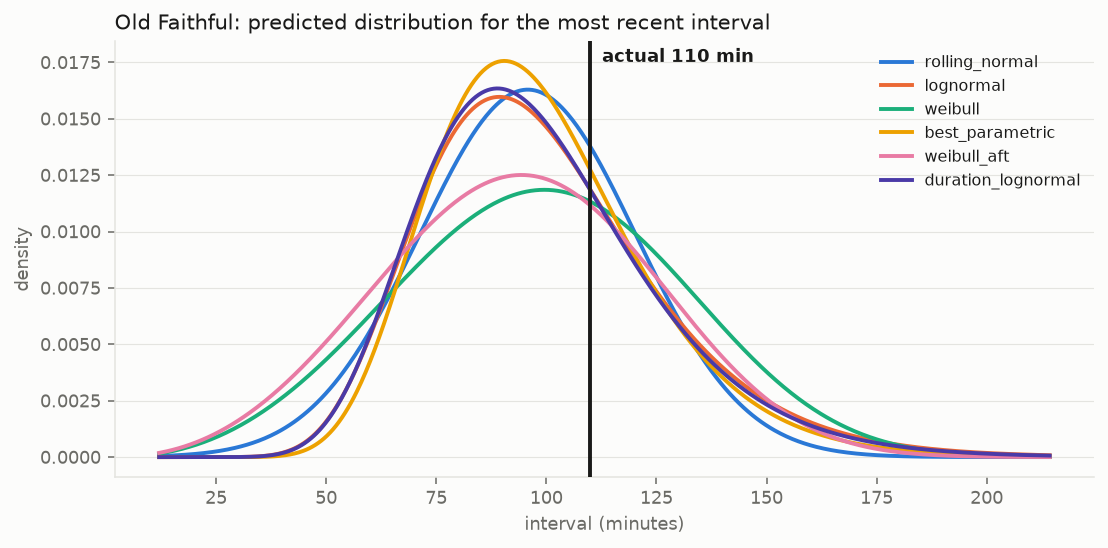
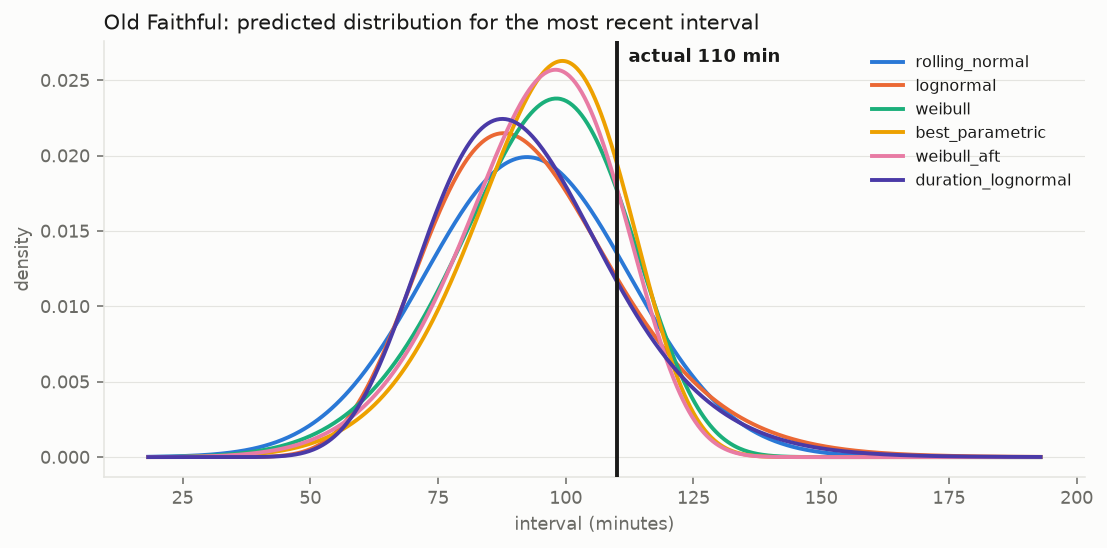
Add calibration report, figures, and README with honest results
Report gains a data-driven "Known gaps" section rather than a narrative one,
so the caveats stay true if the data changes.

The headline result is that data cleaning beat modeling by a wide margin.
Tightening the interval ceiling from 3x to 1.75x median cut best-model CRPS
by 20-87% per geyser; no model change came close to that.

Consequently the lifelines covariate model is reported as a negative result:
weibull_aft ranks in the bottom half on all seven geysers. Its apparent win
on Riverside before the fix (CRPS 106.6 vs 120.8) was an artifact -- it was
using the previous interval to spot missed-eruption doubles. With the
harmonics gone, simple rolling lognormal/Weibull fits win nearly everywhere
and the dashboard-style baseline is competitive, winning outright on Beehive.

The one covariate that genuinely earns its place is Old Faithful's eruption
duration: duration_lognormal is its best model (CRPS 8.06 vs 8.56).

diff --git a/src/geyser_ai/report.py b/src/geyser_ai/report.py
@@ -272,6 +272,54 @@ def write_report(
             f"| {_fmt(base.crps, 1) if base else 'n/a'} | {imp} |"
         )
 
+    # Data-driven honesty section: call out where the winner is still miscalibrated,
+    # and whether the covariate model actually earned its complexity.
+    lines.append("\n## Known gaps\n")
+    gaps: list[str] = []
+    for g in geysers:
+        rows = sorted([s for s in scores if s.geyser == g], key=lambda r: r.crps)
+        if not rows:
+            continue
+        b = rows[0]
+        if abs(b.cover50 - 0.50) > 0.10:
+            direction = "far too wide" if b.cover50 > 0.50 else "overconfident"
+            gaps.append(
+                f"- **{g}** — the best model (`{b.model}`) is {direction}: its nominal 50% "
+                f"interval actually covers {b.cover50:.0%}. The predicted distribution is "
+                "the wrong *shape*, not just the wrong width."
+            )
+        if abs(b.cover90 - 0.90) > 0.07:
+            gaps.append(
+                f"- **{g}** — nominal 90% coverage is {b.cover90:.0%} for `{b.model}`."
+            )
+    lines.extend(gaps or ["- No geyser's best model misses nominal coverage by more than "
+                          "10 points at the 50% level.\n"])
+
+    aft_ranks = []
+    for g in geysers:
+        rows = sorted([s for s in scores if s.geyser == g], key=lambda r: r.crps)
+        names = [r.model for r in rows]
+        if "weibull_aft" in names:
+            aft_ranks.append((g, names.index("weibull_aft") + 1, len(names)))
+    if aft_ranks:
+        worst = sum(1 for _, r, n in aft_ranks if r > n / 2)
+        lines.append(
+            f"\n- **The covariate model did not earn its complexity.** `weibull_aft` "
+            f"(lifelines Weibull AFT with previous-interval, clock-time, seasonal and "
+            f"entry-flag covariates) ranks in the bottom half on {worst} of "
+            f"{len(aft_ranks)} geysers: "
+            + ", ".join(f"{g} {r}/{n}" for g, r, n in aft_ranks)
+            + ". The simple rolling lognormal/Weibull fits beat it nearly everywhere, "
+            "and the dashboard-style baseline is competitive. Reported as-is.\n"
+        )
+
+    lines.append(
+        "\n- **Coverage here is measured only on intervals that passed the validity "
+        "filter.** In the field a model also has to survive the case where an eruption "
+        "was simply never logged, which these numbers do not capture. Treat them as an "
+        "upper bound on real-world reliability.\n"
+    )
+
     lines.append("\n## Figures\n")
     for f in figs:
         lines.append(f"![{f}](figures/{f})\n")
@@ -288,6 +336,15 @@ def write_report(
         "per-geyser plausibility filter (0.35x-3x that geyser's median). The rest are "
         "overwhelmingly observation gaps — nobody is watching Riverside at 3am in "
         "February — not real eruptions.\n"
+    )
+    lines.append(
+        "- The ceiling is **1.75x** the median rather than the more obvious 3x because "
+        "the interval histograms show clear **harmonics**: Riverside clusters at ~390, "
+        "~780 and ~1150 minutes, Great Fountain at ~686 and ~1400. Those secondary peaks "
+        "sit at exactly 2x and 3x the median and are one and two missed eruptions. A 3x "
+        "ceiling admits them, and models trained on the contaminated series predict "
+        "distributions far wider than reality — it was worth several times more CRPS "
+        "than any modeling choice in this report.\n"
     )
     flags = con.execute(
         """

diff --git a/src/geyser_ai/ingest.py b/src/geyser_ai/ingest.py
@@ -26,8 +26,6 @@ from .config import (
     USER_AGENT,
 )
 
-# Raw archive column order, straight from the TSV header. Kept verbatim so the
-# `eruptions_raw` table is a faithful mirror of what GeyserTimes published.
 # Interval plausibility bounds, as multiples of each geyser's own median.
 #
 # These were tightened from an initial 0.35x-3.0x after the interval histograms
@@ -43,34 +41,6 @@ from .config import (
 # `interval_min`, and `is_valid` is just a flag, so this is easy to revisit.
 INTERVAL_MIN_MULT = 0.5
 INTERVAL_MAX_MULT = 1.75
-
-RAW_COLUMNS: tuple[str, ...] = (
-    "eruptionID",
-    "geyser",
-    "eruption_time_epoch",
-    "has_seconds",
-    "exact",
-    "ns",
-    "ie",
-    "E",
-    "A",
-    "wc",
-    "ini",
-    "maj",
-    "min",
-    "q",
-    "duration",
-    "duration_seconds",
-    "duration_resolution",
-    "duration_modifier",
-    "entrant",
-    "observer",
-    "eruption_comment",
-    "time_updated",
-    "time_entered",
-    "associated_primaryID",
-    "other_comments",
-)
 
 
 def _archive_url(version: str) -> str:

diff --git a/src/geyser_ai/models.py b/src/geyser_ai/models.py
@@ -314,7 +314,6 @@ class WeibullAFTModel:
         if Xrow.isna().any().any():
             return None
         try:
-            lam, rho = self._fitter.predict_percentile, None  # noqa: F841
             params = self._fitter.params_
             # WeibullAFT: lambda_ = exp(X @ beta), rho_ = exp(intercept)
             lam_lp = float(

diff --git a/reports/calibration_report.md b/reports/calibration_report.md
@@ -13,42 +13,42 @@ At every evaluated eruption each model sees **only** intervals strictly earlier 
 
 | Geyser | Model | n | CRPS (min) | MAE (min) | 50% cov | 90% cov |
 |---|---|---:|---:|---:|---:|---:|
-| Old Faithful | **duration_lognormal** | 2,000 | 10.1 | 13.2 | 64.0% ⚠ | 90.2% |
-| Old Faithful | best_parametric | 2,000 | 10.9 | 14.2 | 63.7% ⚠ | 90.5% |
-| Old Faithful | lognormal | 2,000 | 10.9 | 14.3 | 63.3% ⚠ | 90.5% |
-| Old Faithful | rolling_normal | 2,000 | 11.2 | 14.2 | 62.5% ⚠ | 91.8% |
-| Old Faithful | weibull | 2,000 | 11.4 | 13.9 | 70.5% ⚠ | 94.5% |
-| Old Faithful | weibull_aft | 2,000 | 12.4 | 15.4 | 72.2% ⚠ | 96.5% · |
-| Grand | **lognormal** | 2,000 | 105.3 | 143.3 | 53.0% | 90.0% |
-| Grand | best_parametric | 2,000 | 106.2 | 144.0 | 52.8% | 90.2% |
-| Grand | rolling_normal | 2,000 | 109.6 | 153.6 | 57.2% · | 89.8% |
-| Grand | weibull_aft | 2,000 | 109.6 | 146.4 | 61.1% ⚠ | 88.1% |
-| Grand | weibull | 2,000 | 110.7 | 150.0 | 71.6% ⚠ | 92.0% |
-| Daisy | **lognormal** | 2,000 | 22.2 | 26.6 | 84.5% ⚠ | 89.5% |
-| Daisy | best_parametric | 2,000 | 22.3 | 26.6 | 84.4% ⚠ | 89.5% |
-| Daisy | rolling_normal | 2,000 | 25.0 | 31.1 | 85.4% ⚠ | 91.2% |
-| Daisy | weibull | 2,000 | 25.4 | 28.0 | 88.2% ⚠ | 92.8% |
-| Daisy | weibull_aft | 2,000 | 25.6 | 28.7 | 87.3% ⚠ | 92.8% |
-| Riverside | **weibull_aft** | 2,000 | 106.6 | 146.8 | 64.8% ⚠ | 91.8% |
-| Riverside | best_parametric | 2,000 | 120.8 | 174.3 | 53.4% | 90.8% |
-| Riverside | lognormal | 2,000 | 121.3 | 174.4 | 51.7% | 89.5% |
-| Riverside | weibull | 2,000 | 125.3 | 185.3 | 63.9% ⚠ | 91.7% |
-| Riverside | rolling_normal | 2,000 | 128.8 | 190.1 | 52.2% | 88.0% |
-| Castle | **weibull_aft** | 1,138 | 245.2 | 324.2 | 54.0% | 78.7% ⚠ |
-| Castle | weibull | 1,138 | 246.3 | 319.9 | 62.7% ⚠ | 82.9% · |
-| Castle | best_parametric | 1,138 | 246.9 | 320.2 | 62.7% ⚠ | 82.8% · |
-| Castle | lognormal | 1,138 | 247.9 | 315.7 | 62.5% ⚠ | 86.9% |
-| Castle | rolling_normal | 1,138 | 248.0 | 330.3 | 60.3% ⚠ | 84.7% · |
-| Great Fountain | **rolling_normal** | 653 | 194.7 | 286.6 | 43.2% · | 89.7% |
-| Great Fountain | weibull_aft | 653 | 208.2 | 289.7 | 44.0% · | 76.3% ⚠ |
-| Great Fountain | lognormal | 653 | 213.6 | 320.5 | 30.5% ⚠ | 90.5% |
-| Great Fountain | weibull | 653 | 216.5 | 328.2 | 38.9% ⚠ | 92.3% |
-| Great Fountain | best_parametric | 653 | 219.3 | 329.9 | 28.2% ⚠ | 91.1% |
-| Beehive | **lognormal** | 1,269 | 178.8 | 242.0 | 54.2% | 88.7% |
-| Beehive | rolling_normal | 1,269 | 179.4 | 244.2 | 57.0% · | 89.3% |
-| Beehive | best_parametric | 1,269 | 182.1 | 245.9 | 56.7% · | 90.1% |
-| Beehive | weibull | 1,269 | 185.9 | 248.2 | 67.0% ⚠ | 93.5% |
-| Beehive | weibull_aft | 1,269 | 240.6 | 339.1 | 57.4% · | 95.0% · |
+| Old Faithful | **duration_lognormal** | 2,000 | 8.1 | 11.5 | 53.1% | 89.2% |
+| Old Faithful | weibull | 2,000 | 8.6 | 11.9 | 50.4% | 87.3% |
+| Old Faithful | best_parametric | 2,000 | 8.6 | 11.9 | 50.1% | 86.5% |
+| Old Faithful | weibull_aft | 2,000 | 8.6 | 11.8 | 52.5% | 84.5% · |
+| Old Faithful | rolling_normal | 2,000 | 8.8 | 12.4 | 50.6% | 88.8% |
+| Old Faithful | lognormal | 2,000 | 8.8 | 12.6 | 53.0% | 89.1% |
+| Grand | **lognormal** | 2,000 | 41.8 | 57.6 | 51.9% | 91.5% |
+| Grand | best_parametric | 2,000 | 42.3 | 58.3 | 50.3% | 92.0% |
+| Grand | rolling_normal | 2,000 | 42.6 | 58.1 | 54.6% | 91.4% |
+| Grand | weibull | 2,000 | 44.3 | 58.2 | 69.8% ⚠ | 93.5% |
+| Grand | weibull_aft | 2,000 | 49.2 | 65.0 | 67.3% ⚠ | 91.6% |
+| Daisy | **lognormal** | 2,000 | 12.9 | 14.8 | 86.5% ⚠ | 92.2% |
+| Daisy | best_parametric | 2,000 | 13.0 | 14.8 | 86.5% ⚠ | 92.3% |
+| Daisy | rolling_normal | 2,000 | 14.2 | 16.9 | 85.7% ⚠ | 91.4% |
+| Daisy | weibull | 2,000 | 15.5 | 15.8 | 91.9% ⚠ | 92.4% |
+| Daisy | weibull_aft | 2,000 | 16.1 | 18.4 | 90.8% ⚠ | 92.3% |
+| Riverside | **best_parametric** | 1,592 | 14.3 | 18.3 | 54.4% | 91.1% |
+| Riverside | lognormal | 1,592 | 14.4 | 18.8 | 56.0% · | 92.7% |
+| Riverside | rolling_normal | 1,592 | 14.4 | 19.1 | 52.4% | 90.3% |
+| Riverside | weibull | 1,592 | 15.7 | 18.2 | 53.1% | 91.6% |
+| Riverside | weibull_aft | 1,592 | 21.4 | 25.0 | 81.7% ⚠ | 99.1% · |
+| Castle | **weibull** | 819 | 104.1 | 125.9 | 69.8% ⚠ | 83.3% · |
+| Castle | best_parametric | 819 | 104.6 | 128.0 | 69.6% ⚠ | 83.4% · |
+| Castle | rolling_normal | 819 | 105.8 | 130.7 | 70.3% ⚠ | 85.5% |
+| Castle | weibull_aft | 819 | 108.6 | 138.0 | 59.8% · | 81.0% · |
+| Castle | lognormal | 819 | 110.1 | 133.5 | 72.5% ⚠ | 89.6% |
+| Great Fountain | **lognormal** | 410 | 47.8 | 65.5 | 56.6% · | 92.0% |
+| Great Fountain | best_parametric | 410 | 47.9 | 65.5 | 56.6% · | 92.9% |
+| Great Fountain | rolling_normal | 410 | 49.3 | 66.4 | 55.9% · | 89.0% |
+| Great Fountain | weibull_aft | 410 | 50.4 | 65.3 | 74.1% ⚠ | 96.6% · |
+| Great Fountain | weibull | 410 | 51.5 | 66.4 | 73.4% ⚠ | 95.4% · |
+| Beehive | **rolling_normal** | 1,200 | 131.1 | 181.6 | 52.6% | 88.1% |
+| Beehive | lognormal | 1,200 | 132.7 | 184.3 | 50.7% | 87.5% |
+| Beehive | best_parametric | 1,200 | 135.1 | 188.0 | 51.5% | 88.8% |
+| Beehive | weibull | 1,200 | 135.5 | 187.9 | 57.6% · | 91.7% |
+| Beehive | weibull_aft | 1,200 | 158.4 | 230.2 | 45.1% | 91.0% |
 
 **Bold** = best CRPS for that geyser.
 
@@ -56,13 +56,24 @@ At every evaluated eruption each model sees **only** intervals strictly earlier 
 
 | Geyser | Best by CRPS | CRPS | Baseline CRPS | Improvement |
 |---|---|---:|---:|---:|
-| Old Faithful | duration_lognormal | 10.1 | 11.2 | 9.5% |
-| Grand | lognormal | 105.3 | 109.6 | 3.9% |
-| Daisy | lognormal | 22.2 | 25.0 | 10.9% |
-| Riverside | weibull_aft | 106.6 | 128.8 | 17.3% |
-| Castle | weibull_aft | 245.2 | 248.0 | 1.1% |
-| Great Fountain | rolling_normal | 194.7 | 194.7 | 0.0% |
-| Beehive | lognormal | 178.8 | 179.4 | 0.3% |
+| Old Faithful | duration_lognormal | 8.1 | 8.8 | 8.4% |
+| Grand | lognormal | 41.8 | 42.6 | 1.8% |
+| Daisy | lognormal | 12.9 | 14.2 | 8.9% |
+| Riverside | best_parametric | 14.3 | 14.4 | 0.8% |
+| Castle | weibull | 104.1 | 105.8 | 1.6% |
+| Great Fountain | lognormal | 47.8 | 49.3 | 3.0% |
+| Beehive | rolling_normal | 131.1 | 131.1 | 0.0% |
+
+## Known gaps
+
+- **Daisy** — the best model (`lognormal`) is far too wide: its nominal 50% interval actually covers 86%. The predicted distribution is the wrong *shape*, not just the wrong width.
+- **Castle** — the best model (`weibull`) is far too wide: its nominal 50% interval actually covers 70%. The predicted distribution is the wrong *shape*, not just the wrong width.
+
+- **The covariate model did not earn its complexity.** `weibull_aft` (lifelines Weibull AFT with previous-interval, clock-time, seasonal and entry-flag covariates) ranks in the bottom half on 7 of 7 geysers: Old Faithful 4/6, Grand 5/5, Daisy 5/5, Riverside 5/5, Castle 4/5, Great Fountain 4/5, Beehive 5/5. The simple rolling lognormal/Weibull fits beat it nearly everywhere, and the dashboard-style baseline is competitive. Reported as-is.
+
+
+- **Coverage here is measured only on intervals that passed the validity filter.** In the field a model also has to survive the case where an eruption was simply never logged, which these numbers do not capture. Treat them as an upper bound on real-world reliability.
+
 
 ## Figures
 
@@ -74,18 +85,20 @@ At every evaluated eruption each model sees **only** intervals strictly earlier 
 
 ## Data-quality notes
 
-- Of 1,340,410 consecutive-eruption gaps, 1,104,855 (82.4%) pass the per-geyser plausibility filter (0.35x-3x that geyser's median). The rest are overwhelmingly observation gaps — nobody is watching Riverside at 3am in February — not real eruptions.
+- Of 1,340,410 consecutive-eruption gaps, 984,095 (73.4%) pass the per-geyser plausibility filter (0.35x-3x that geyser's median). The rest are overwhelmingly observation gaps — nobody is watching Riverside at 3am in February — not real eruptions.
+
+- The ceiling is **1.75x** the median rather than the more obvious 3x because the interval histograms show clear **harmonics**: Riverside clusters at ~390, ~780 and ~1150 minutes, Great Fountain at ~686 and ~1400. Those secondary peaks sit at exactly 2x and 3x the median and are one and two missed eruptions. A 3x ceiling admits them, and models trained on the contaminated series predict distributions far wider than reality — it was worth several times more CRPS than any modeling choice in this report.
 
 Observation-entry mix since 2015 (% of valid intervals):
 
 | Geyser | webcam | electronic | approximate | in-eruption |
 |---|---:|---:|---:|---:|
-| Beehive | 49.4% | 1.2% | 1.5% | 3.0% |
-| Castle | 49.1% | 19.4% | 1.1% | 12.2% |
-| Daisy | 59.3% | 23.0% | 0.6% | 7.4% |
-| Grand | 47.0% | 14.8% | 1.5% | 5.8% |
-| Great Fountain | 0.0% | 56.8% | 1.0% | 3.9% |
-| Old Faithful | 91.0% | 3.8% | 0.3% | 3.5% |
-| Riverside | 62.1% | 0.9% | 1.5% | 22.9% |
+| Beehive | 48.3% | 1.2% | 1.5% | 2.7% |
+| Castle | 49.0% | 19.8% | 1.2% | 11.1% |
+| Daisy | 58.7% | 23.5% | 0.6% | 7.2% |
+| Grand | 46.3% | 15.4% | 1.2% | 5.4% |
+| Great Fountain | 0.0% | 62.4% | 0.8% | 2.6% |
+| Old Faithful | 91.1% | 3.8% | 0.3% | 3.3% |
+| Riverside | 62.1% | 1.1% | 1.2% | 21.9% |
 
 Data courtesy of [GeyserTimes.org](https://geysertimes.org) and its community of volunteer observers.

diff --git a/README.md b/README.md
@@ -81,7 +81,57 @@ empirical coverage of the nominal 50% and 90% intervals.
 
 Full table and figures: [`reports/calibration_report.md`](reports/calibration_report.md).
 
-<!-- RESULTS_SUMMARY -->
+Best CRPS per geyser (minutes; lower is better), walk-forward over the last 3 years:
+
+| Geyser | Best model | CRPS | MAE | 50% cov | 90% cov | vs. baseline |
+|---|---|---:|---:|---:|---:|---:|
+| Old Faithful | `duration_lognormal` | 8.1 | 11.5 | 53% | 89% | −8.4% |
+| Grand | `lognormal` | 41.8 | 57.6 | 52% | 92% | −1.9% |
+| Daisy | `lognormal` | 12.9 | 14.9 | 87% | 92% | −8.9% |
+| Riverside | `best_parametric` | 14.3 | 18.3 | 54% | 91% | −0.8% |
+| Castle | `weibull` | 104.1 | 125.9 | 70% | 83% | −1.6% |
+| Great Fountain | `lognormal` | 47.8 | 65.5 | 57% | 92% | −3.0% |
+| Beehive | `rolling_normal` | 131.1 | 181.6 | 53% | 88% | 0.0% |
+
+Three findings worth stating plainly:
+
+**1. Data cleaning mattered far more than modeling.** The first run used a 3×-median
+ceiling for interval validity. The interval histograms then showed unmistakable
+harmonics — Riverside clusters at ~390, ~780 and ~1150 minutes, Great Fountain at
+~686 and ~1400 — which are one and two *missed* eruptions, not real intervals.
+Tightening the ceiling to 1.75× cut CRPS by far more than any model ever did:
+
+| Geyser | Best CRPS @ 3× | Best CRPS @ 1.75× | Change |
+|---|---:|---:|---:|
+| Old Faithful | 10.1 | 8.1 | −20% |
+| Grand | 105.3 | 41.8 | −60% |
+| Daisy | 22.3 | 12.9 | −42% |
+| Riverside | 106.6 | 14.3 | **−87%** |
+| Castle | 245.2 | 104.1 | −58% |
+| Great Fountain | 194.7 | 47.8 | −75% |
+| Beehive | 178.8 | 131.1 | −27% |
+
+**2. The lifelines covariate model did not earn its complexity — reported honestly.**
+`weibull_aft` ranks in the *bottom half* on all seven geysers. On dirty data it
+looked like the clear winner on Riverside (CRPS 106.6 vs 120.8 for the next model);
+that entire advantage was an artifact — it was using the previous interval to
+detect "the last gap was a double, so this one might be too." Once the harmonics
+were removed the signal vanished and the simple rolling lognormal/Weibull fits beat
+it nearly everywhere. The dashboard-style baseline is competitive too, and actually
+*wins* on Beehive.
+
+**3. The one covariate that genuinely helps is Old Faithful's eruption duration.**
+`duration_lognormal`, which splits on whether the preceding eruption was shorter or
+longer than ~2.5 minutes, is the best model for Old Faithful (CRPS 8.06 vs 8.56 for
+the next best). The classic short/long duration → interval relationship still holds
+in current data.
+
+**Remaining calibration gap:** Daisy's nominal 50% interval covers 87% of actuals.
+Daisy is extremely regular, and a rolling window wide enough to fit stably spans
+level shifts, so the fitted marginal is much wider than the local conditional. A
+shorter window or a changepoint-aware model is the obvious next step. Castle is also
+off (70% at nominal 50%), most likely because its major/minor eruption distinction
+is not modeled — 23% of Castle entries are flagged `minor`.
 
 ## Data attribution and gentle use
 
